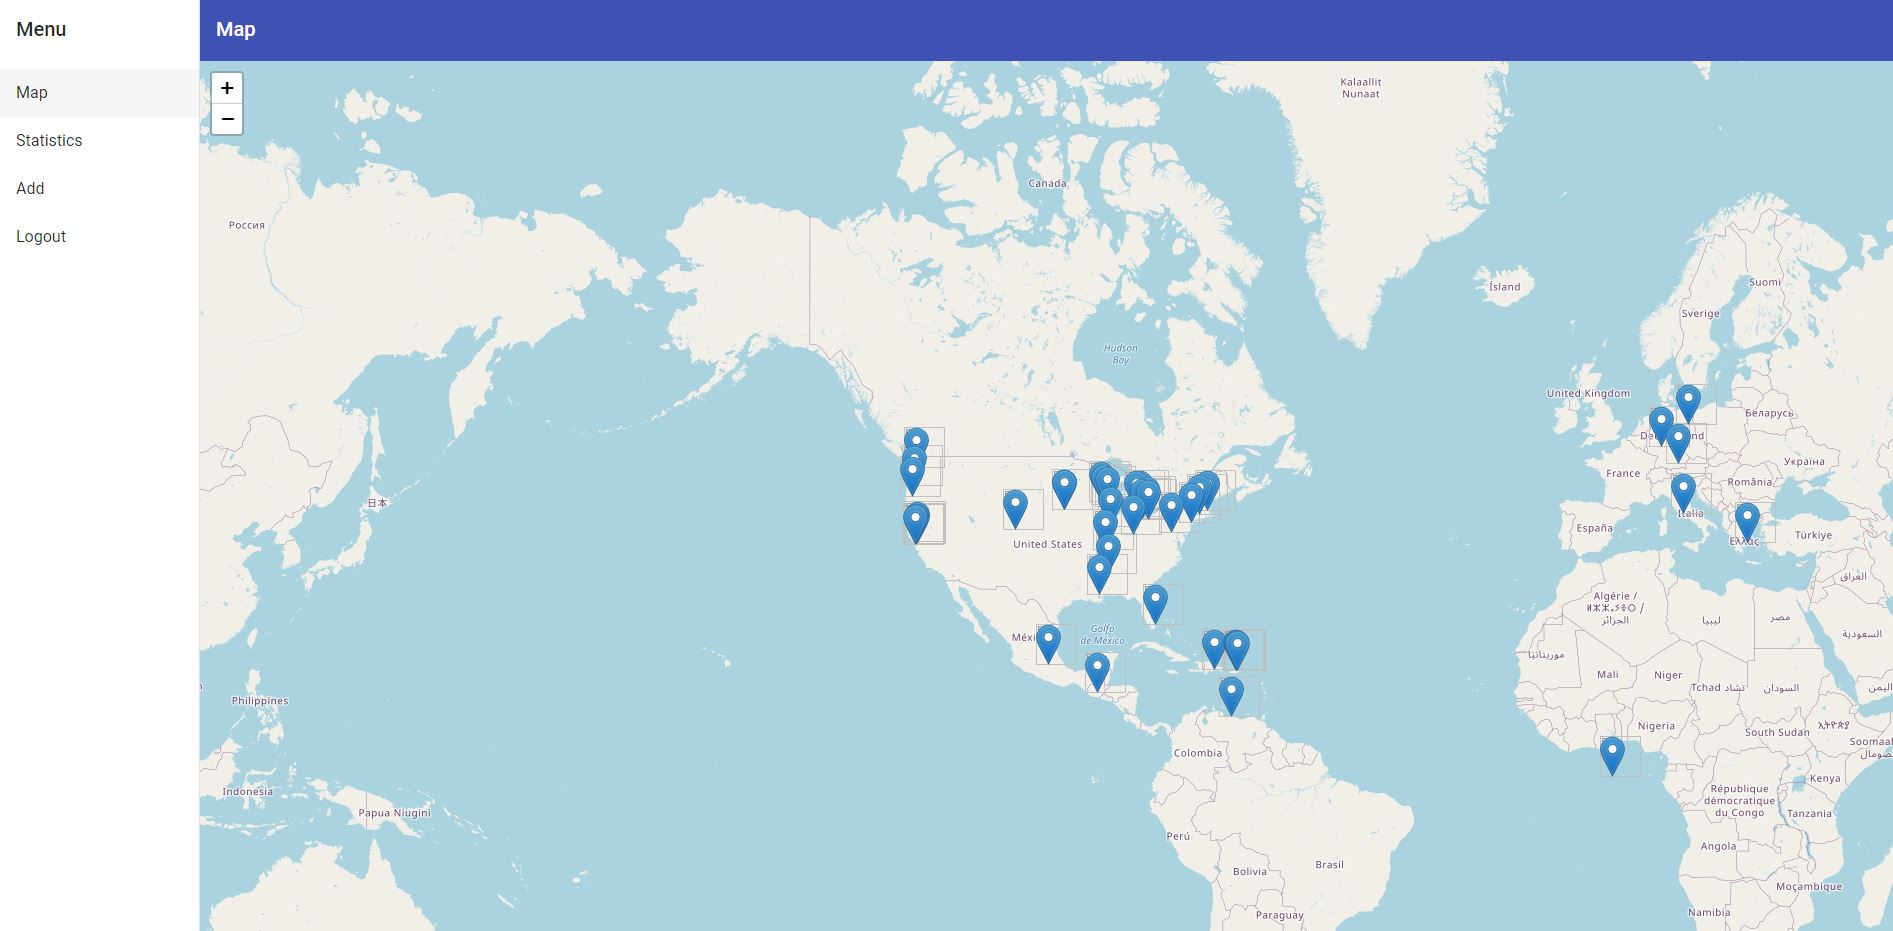
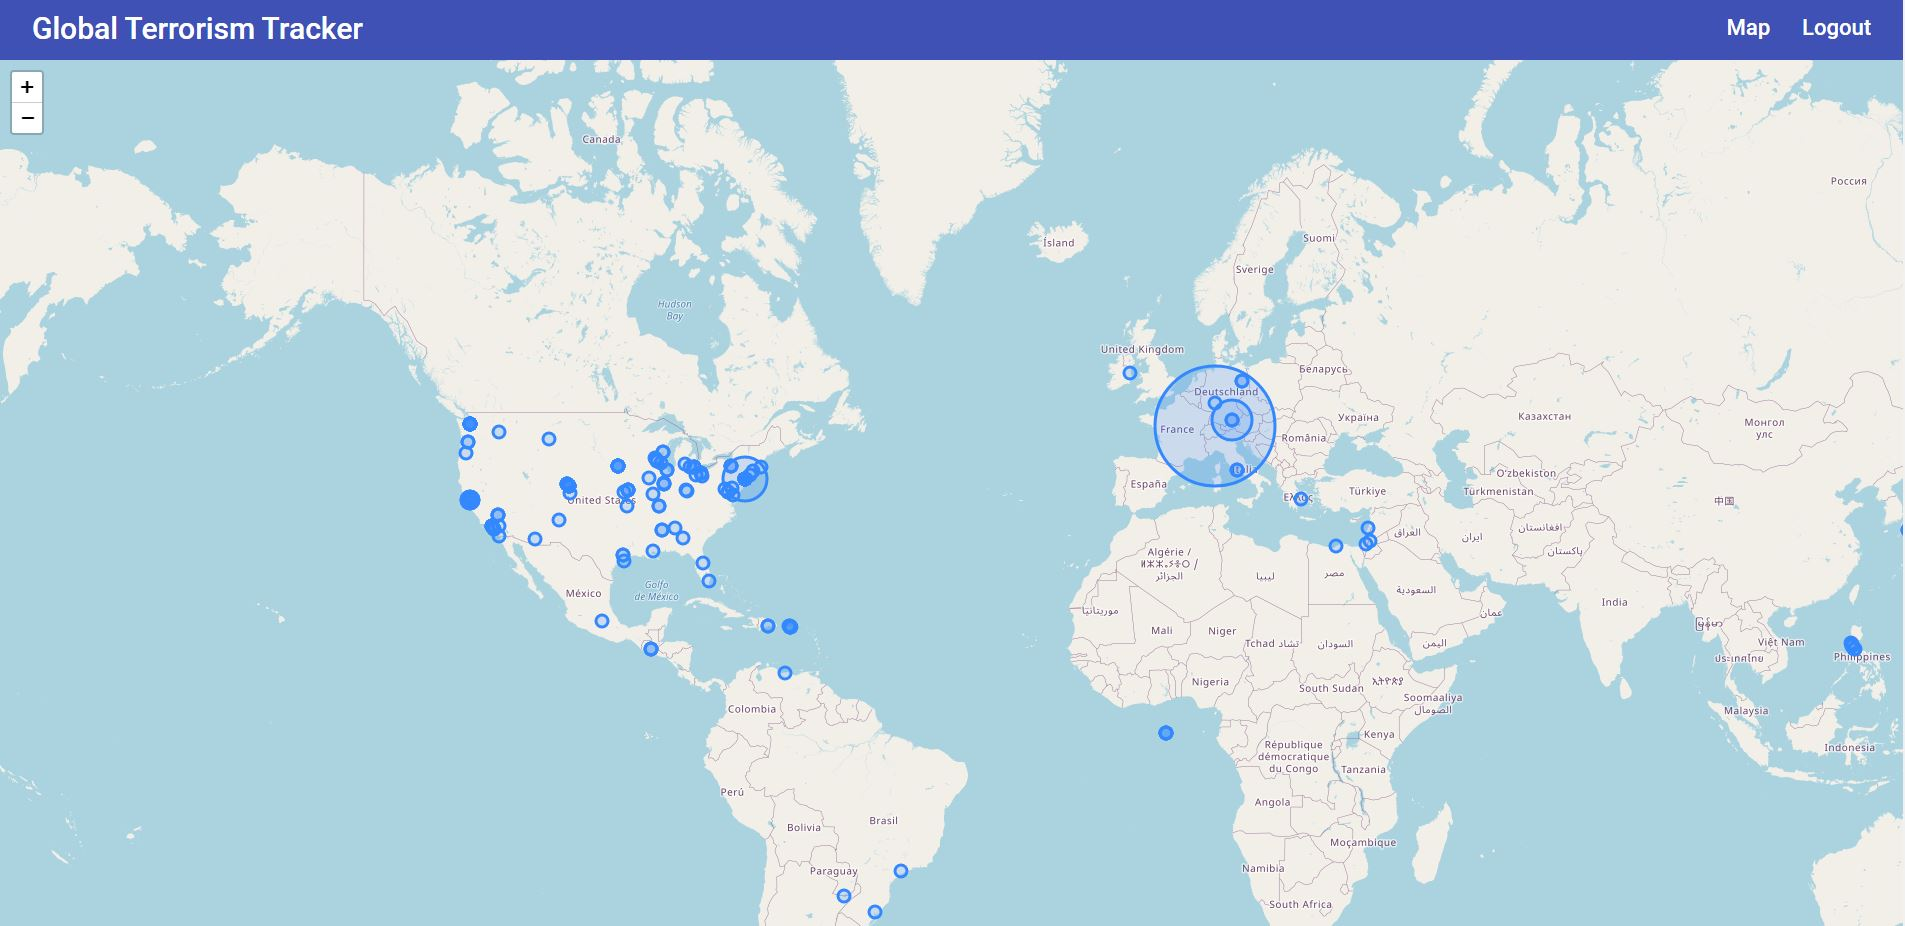
Scale markers radius in Marker Service

diff --git a/client/src/app/map/marker.service.ts b/client/src/app/map/marker.service.ts
@@ -18,7 +18,12 @@ export default class MarkerService {
   }
 
   private scaleRadius = (value: number, maxValue: number): number =>
-    20 * value * maxValue;
+    60 * (this.calculateRadius(value, maxValue) / maxValue);
+
+  private calculateRadius(value: number, maxValue: number): number {
+    const oneTenthOfMaxVal = maxValue / 10;
+    return value <= oneTenthOfMaxVal ? oneTenthOfMaxVal : value;
+  }
 
   showCircleMarkers(events: Event[] = [], map: L.Map): L.CircleMarker[] {
     const maxValue = Math.max(

diff --git a/client/src/app/event/store/event.effects.ts b/client/src/app/event/store/event.effects.ts
@@ -12,7 +12,7 @@ export default class EventEffects {
   fetchEvents$ = createEffect(() =>
     this.actions$.pipe(
       ofType(EventActions.fetchEvents),
-      switchMap(() => this.eventService.getAll()),
+      switchMap(() => this.eventService.getAll(1000)),
       map((response) => response.content),
       map((events) => EventActions.setEvents({ events }))
     )
